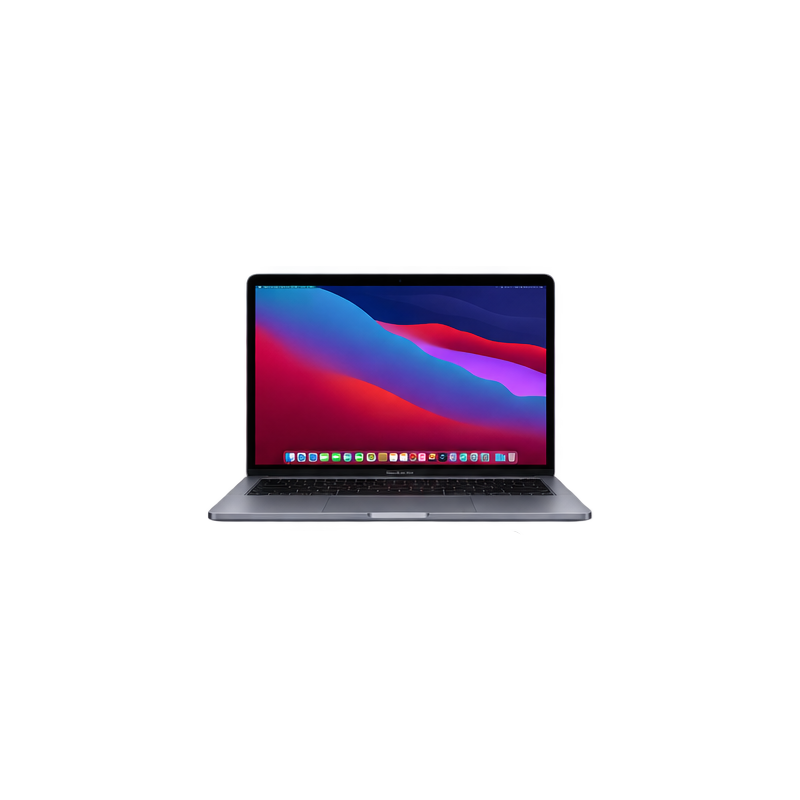
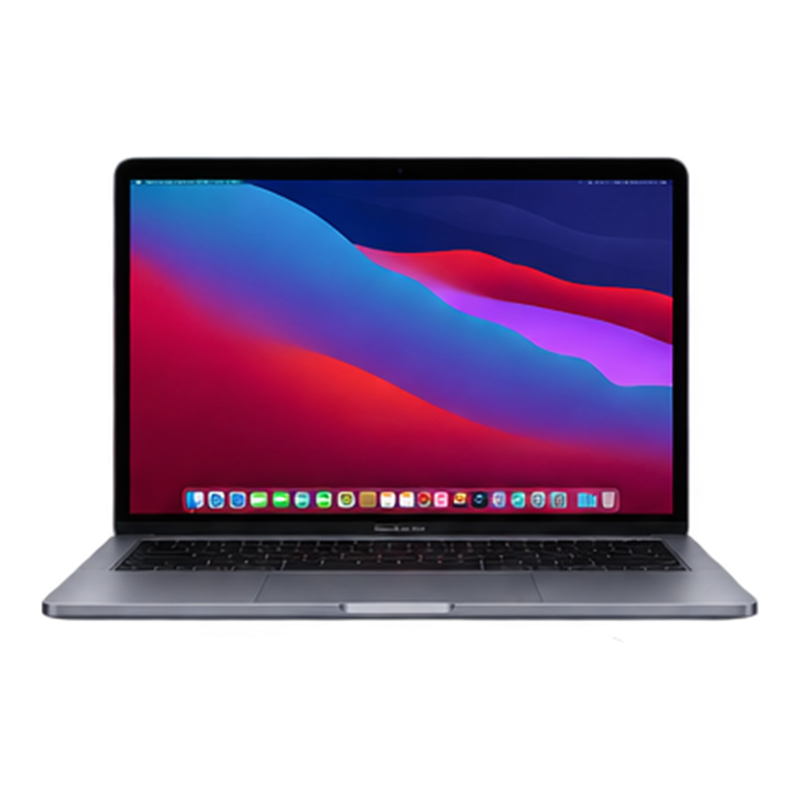
fix(mac): optimizar dimensiones de imagen /mac/macbook13-m12020.png a 800x800 completo y ajustar padding en ProductCard

diff --git a/components/ProductCard.tsx b/components/ProductCard.tsx
@@ -31,7 +31,7 @@ export function ProductCard({ name, specs, price, image, href, waLink, badge, id
           alt={name}
           className={`w-full h-full ${
             image.endsWith(".png") || image.startsWith("/")
-              ? "object-contain p-4"
+              ? "object-contain p-2.5"
               : "object-cover"
           } group-hover:scale-[1.04] transition-transform duration-700 ease-out`}
         />
